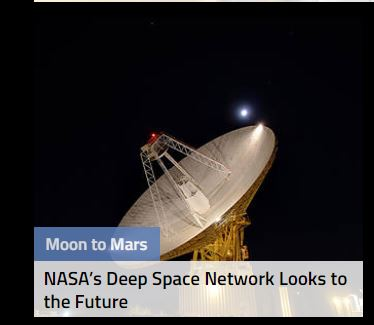
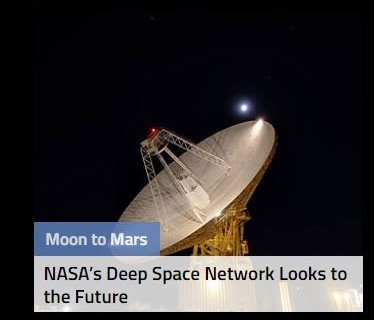
added news1, position is not fixed

diff --git a/Lab/CSS/mystyle.css b/Lab/CSS/mystyle.css
@@ -47,3 +47,9 @@ a:active
   background-color: transparent;
   text-decoration: underline;
 }
+
+news.news1
+{
+  position:absolute
+  
+}

diff --git a/Lab/HTML/Index.html b/Lab/HTML/Index.html
@@ -48,5 +48,9 @@
 		</div>
 	</div>
 
+	<div class="news">
+		<img src="../Img/news1.JPG" name="news1">
+	</div>
+
 </body>
 </html>

diff --git a/Lab/JavaScript/myscript.js b/Lab/JavaScript/myscript.js
@@ -1,0 +1,6 @@
+
+// this method should change the three pieces of news on row 1
+displayNews()
+{
+    
+}
